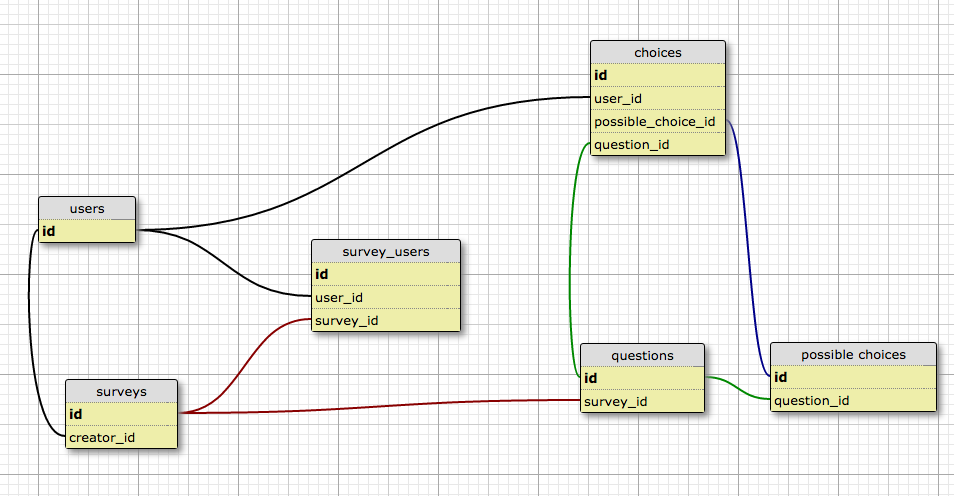
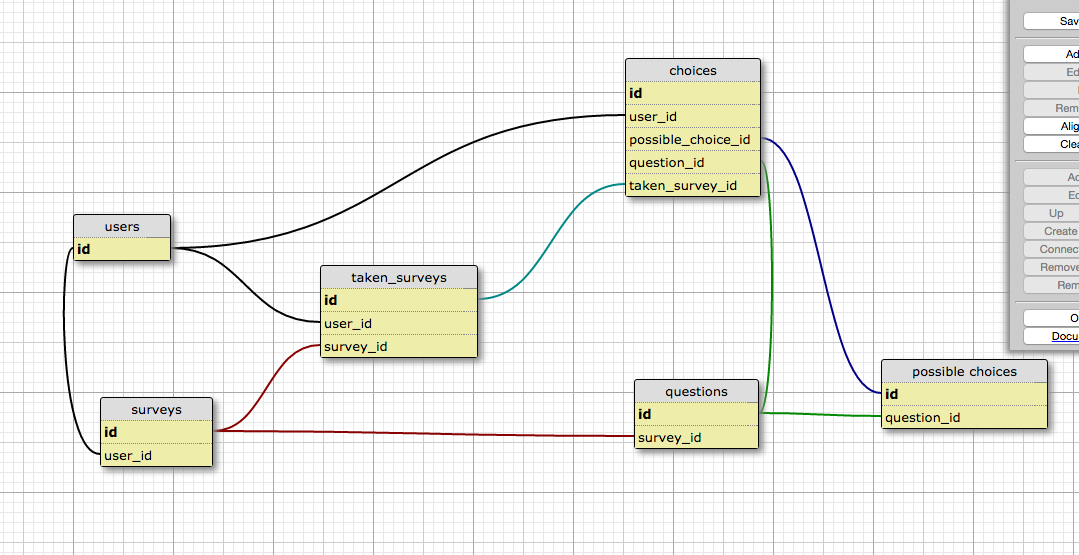
Migrations and models made

diff --git a/db/migrate/20160311112534_create_choices.rb b/db/migrate/20160311112534_create_choices.rb
@@ -4,6 +4,7 @@ class CreateChoices < ActiveRecord::Migration
       t.references :user, index: true
       t.references :possible_choice, index: true
       t.references :question, index: true
+      t.references :taken_survey, index: true
 
       t.timestamps null: false
     end
